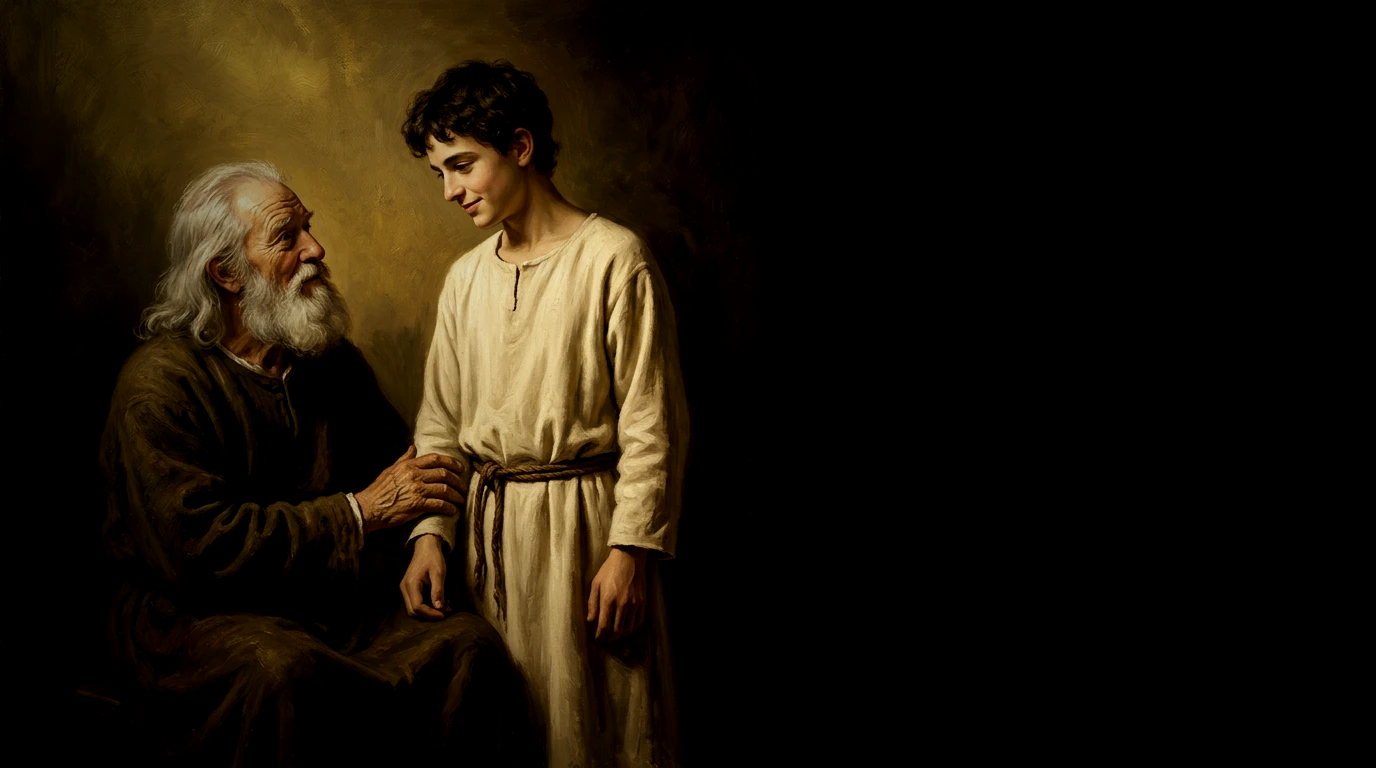
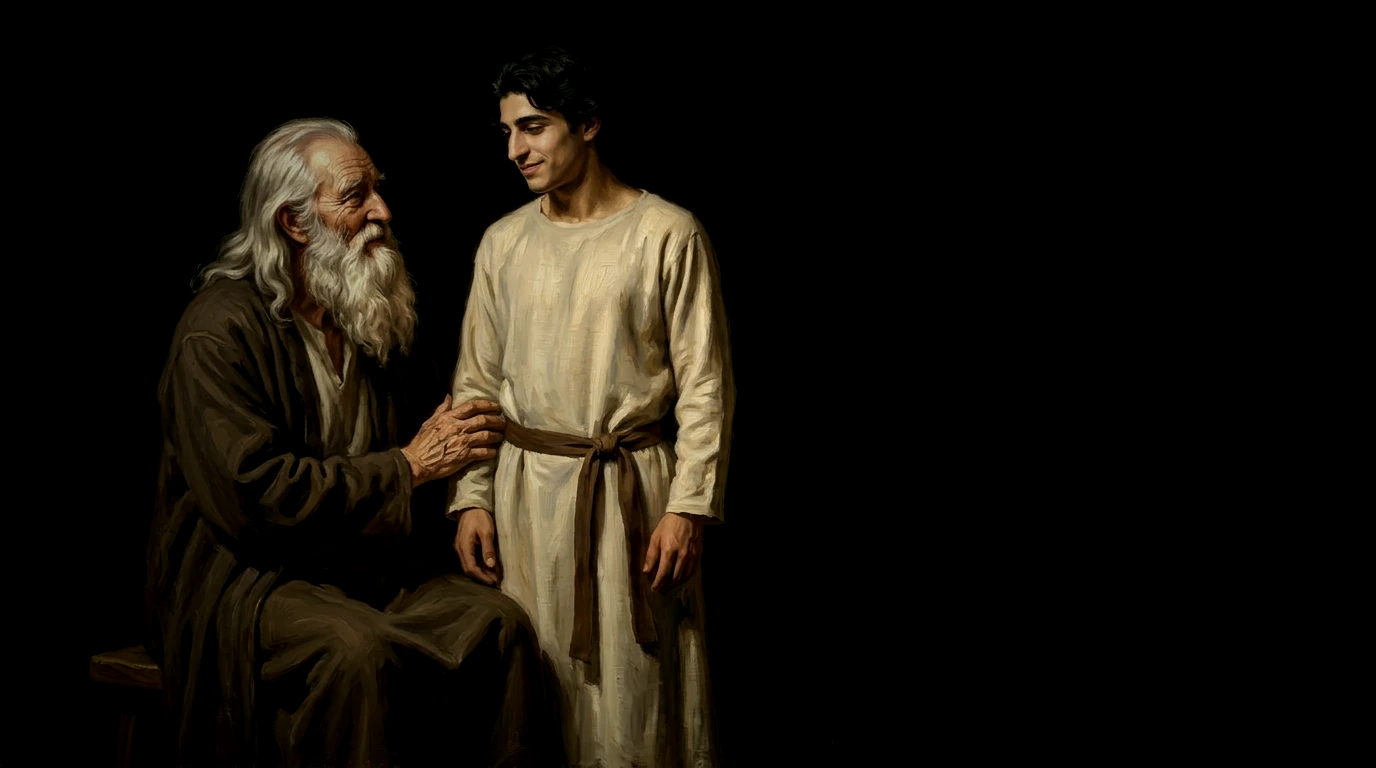
09: Magnific Nano Banana 2 redo of Jacob+Joseph, Cain+Abel, reaching Joseph with references
Claude-Session: https://claude.ai/code/session_016t4pfnS8RRa6Q4vN1upjTj

Changed region(s): [[0.0, 0.0, 0.5312, 1.0], [0.0625, 0.8438, 0.125, 0.875], [0.1875, 0.9375, 0.2188, 0.9688]]

diff --git a/_handoff09/b09p/scenes09p.js b/_handoff09/b09p/scenes09p.js
@@ -158,7 +158,7 @@ function tag(s,ix,iy,a,gold,o={}){if(a<=.003)return;const [x,y]=P(ix,iy);const l
 function tagAt(s,lx,ly,ix,iy,a,gold,sz=52){if(a<=.003)return;const [x,y]=P(ix,iy);cap(s,lx,ly,sz,a,gold,'7px');X.save();X.font=`500 ${sz}px Fraunces`;X.letterSpacing='7px';const hw=X.measureText(s).width/2+18;X.restore();
   const sx=x<lx?lx-hw:lx+hw;X.save();X.globalAlpha*=a*.8;X.strokeStyle='rgba(217,180,106,.9)';X.lineWidth=2;X.beginPath();X.moveTo(sx,ly);X.lineTo(x,y);X.stroke();X.restore();}
 // draw a painting at an explicit transform (s = screen px per image px)
-function draw(k,ox,oy,s,a=1){const im=IMG[k];if(!im)return;LP={ox,oy,s,b:{side:'C',l:ox,r:ox+1376*s}};X.save();X.globalAlpha*=a;X.drawImage(im,ox,oy,1376*s,768*s);X.restore();}
+function draw(k,ox,oy,s,a=1){const im=IMG[k];if(!im)return;LP={ox,oy,s,b:{side:'C',l:ox,r:ox+1376*s}};X.save();X.globalAlpha*=a;if(k==='b_joseph')X.globalCompositeOperation='lighten';X.drawImage(im,ox,oy,1376*s,768*s);X.restore();}
 // keep image point (ix,iy) at screen (sx,sy) with scale s
 const at=(ix,iy,sx,sy,s)=>[sx-ix*s,sy-iy*s];
 function warm(x,y,r,a){X.save();X.globalCompositeOperation='lighter';const g=X.createRadialGradient(x,y,0,x,y,r);g.addColorStop(0,`rgba(255,196,110,${.2*a})`);g.addColorStop(1,'rgba(255,196,110,0)');X.fillStyle=g;X.fillRect(0,0,W,H);X.restore();}
@@ -217,7 +217,7 @@ S(11.95,17.15,(v)=>{const u=camE((v-12.05)/5.2);const z=lerp(.832,.875,u),cxI=le
   tagAt('FIRSTBORN',300,440,360,300,1,false);tagAt('YOUNGER',1620,440,1000,340,1+.2*sm(tYg,tYg+.4,v),true);
   const [hx,hy]=P(872,248);{const [sx,sy]=P(600,318);ink(bez([sx,sy],[(sx+hx)/2,sy-210],[hx-10,hy-58]),eio(sm(tRH,tRH+1.1,v)),1,{arrow:true,w:6,head:30});}});
 // ---------- 0:17 · the boys' father
-S(17.15,19.75,(v)=>{const u=camE((v-17.25)/2.65);{const s2=H/768*.5;draw('02_crossing',-70+10*u,1060-759*s2,s2,.9);}const sc=H/768*.7*(1+.05*u);const [ox,oy]=at(930,150,1430-40*u,500,sc);warm(1400,560,600,1);draw('b_joseph',ox,oy,sc);bokeh(v,1,7,6);
+S(17.15,19.75,(v)=>{const u=camE((v-17.25)/2.65);{const s2=H/768*.5;draw('02_crossing',-70+10*u,1060-759*s2,s2,.9);}const sc=H/768*.7*(1+.05*u);const [ox,oy]=at(817,90,1430-40*u,420,sc);warm(1400,560,600,1);draw('b_joseph',ox,oy,sc);bokeh(v,1,7,6);
   cap('JOSEPH, THE BOYS’ FATHER',1330,150,52,ap(v,17.3,.4),true);lx('Jacob’s own son,',1330,250,76,v,18.6);});
 // ---------- 0:20 · he grabs Jacob's hand
 S(19.75,21.55,(v)=>{const u=eio(clamp((v-19.55)/2.95));const z=lerp(.95,1.55,u);const sc=H/768*z;const [ox,oy]=at(790,262,960,lerp(600,540,u),sc);warm(960,560,700,.8);draw('02b_grabs',ox,oy,sc);bokeh(v,1,43,5);
@@ -226,7 +226,7 @@ S(19.75,21.55,(v)=>{const u=eio(clamp((v-19.55)/2.95));const z=lerp(.95,1.55,u);
   const g2=X.createLinearGradient(0,820,0,1080);g2.addColorStop(0,'rgba(5,4,3,0)');g2.addColorStop(1,'rgba(5,4,3,.9)');X.fillStyle=g2;X.fillRect(0,820,W,260);X.restore();
   lx('He grabs Jacob’s hand to move it.',960,950,70,v,19.9);});
 // ---------- 0:22 · "Not so, father, this one is the firstborn"
-S(21.55,24.75,(v)=>{const z=lerp(1.25,1.31,camE((v-22.3)/2.6));const sc=H/768*z;const [ox,oy]=at(930,150,1450,400,sc);warm(1450,420,700,1);draw('b_joseph',ox,oy,sc);blackL(860,1200);bokeh(v,1,47,6);
+S(21.55,24.75,(v)=>{const z=lerp(1.25,1.31,camE((v-22.3)/2.6));const sc=H/768*z;const [ox,oy]=at(817,90,1450,400,sc);warm(1450,420,700,1);draw('b_joseph',ox,oy,sc);blackL(860,1200);bokeh(v,1,47,6);
   vSide(ap(v,21.7,.35),600,'GENESIS 48:18','לֹא־כֵן אָבִי כִּי־זֶה הַבְּכֹר',['הַבְּכֹר'],[[['“Not so, father,',0]],[['this one is the ',0],['firstborn',1],['.”',0]]],{cy:540,hs:100,es:66});});
 // ---------- 0:25 · "and Jacob says, 'I know, my son, I know'" ----------
 S(24.75,28.65,(v)=>{const k2=C('i know',27);const z=1.04+.06*eio(sm(24.9,28.75,v))+.06*eio(sm(k2,k2+1,v));pic('03_jacob_closeup',v,24.9,28.8,{side:'L',tx:420,z,push:0});
@@ -280,9 +280,9 @@ S(53.15,60.05,(v)=>{const u=camE((v-53.25)/6.9);const sc=1.22*(1+.05*u);const [o
   tag('ABEL',830,150,ap(v,tA+.3,.5),true,{dx:210,y:430,tick:false});tag('CAIN',372,60,ap(v,C('instead of cains',56)+.2,.5),false,{dx:-170,y:400,tick:false});});
 // ---------- 1:00 · Genesis 4:8 ----------
 S(60.05,63.35,(v)=>{const tR=C('cain rises up',59),tK=C('and kills him',61);
-  pic('f_cain_rises',v,60.15,63.6,{side:'L',tx:520,fx:.45,z:.85,push:.06,fade:760});bokeh(v,1,31,5);
-  const [ax,ay]=P(860,560);dimAt(ax,ay,330,.95*sm(tK,tK+.8,v));
-  verse2(ap(v,60.2,.3),1460,520,'GENESIS 4:8',['וַיָּקָם קַיִן אֶל־הֶבֶל','אָחִיו וַיַּהַרְגֵהוּ'],['וַיַּהַרְגֵהוּ'],[[['“Cain rose up against Abel',0]],[['his brother, and ',0],['killed him',1],['.”',0]]],{hs:92,es:62});});
+  pic('f_cain_rises',v,60.15,63.6,{side:'L',tx:560,fx:.5,z:.75,push:.06,fade:760});bokeh(v,1,31,5);
+  const [ax,ay]=P(1100,560);dimAt(ax,ay,330,.95*sm(tK,tK+.8,v));
+  verse2(ap(v,60.2,.3),1520,520,'GENESIS 4:8',['וַיָּקָם קַיִן אֶל־הֶבֶל','אָחִיו וַיַּהַרְגֵהוּ'],['וַיַּהַרְגֵהוּ'],[[['“Cain rose up against Abel',0]],[['his brother, and ',0],['killed him',1],['.”',0]]],{hs:92,es:62});});
 // ---------- 1:03 · "But God keeps choosing the younger anyway. Isaac is picked over his older brother Ishmael" ----------
 S(63.35,69.05,(v)=>{const tO=C('his older brother ishmael',66);const q=eio(sm(tO-.7,tO+1.5,v));
   const sA=H/768*1.3,sB=H/768*.82;const [aox,aoy]=at(957,480,640,600,sA);const bm=META['11_isaac_ishmael'];const box=440-bm.cx*1376*sB,boy=560-.5*768*sB;
@@ -397,7 +397,7 @@ S(207.15,213.15,(v)=>{BGd();const xs=[520,960,1400],tc=[207.3,208.7,211.4];
 S(213.15,216.95,(v)=>{pic('31_joseph_sold',v,213.15,217,{side:'R',tx:1300,drift:-50});const c=560;
   lx('They sell him',c,430,66,v,213.3);lx('as a slave instead,',c,515,66,v,213.8);lx('but *Joseph* survives.',c,625,66,v,215.5);});
 // 3:37 · years later: the boys' father
-S(216.95,223.15,(v)=>{const u=camE((v-217.1)/6);{const s2=H/768*.5;draw('02_crossing',-70+10*u,1060-759*s2,s2,.9);}const s=H/768*.7*(1+.06*u);const [ox,oy]=at(930,150,1430-40*u,500,s);warm(1400,560,600,1);draw('b_joseph',ox,oy,s);bokeh(v,1,61,6);
+S(216.95,223.15,(v)=>{const u=camE((v-217.1)/6);{const s2=H/768*.5;draw('02_crossing',-70+10*u,1060-759*s2,s2,.9);}const s=H/768*.7*(1+.06*u);const [ox,oy]=at(817,90,1430-40*u,420,s);warm(1400,560,600,1);draw('b_joseph',ox,oy,s);bokeh(v,1,61,6);
   nameH('יוֹסֵף','JOSEPH',400,190,ap(v,217.2,.35),86,44);lx('Years later,',540,335,60,v,217.1);ln('the boys’ father',400,300,60,v,218.2);lx('from the start of this story,',540,495,60,v,219.1);lx('the one who grabs Jacob’s hand.',540,575,60,v,221.0);});
 // 3:43 · Manasseh and Ephraim
 S(223.15,227.85,(v)=>{warm(960,560,820,.8);const z=lerp(.78,.81,camE((v-223.3)/5));bed('00_before',v,z);

diff --git a/_research/notes.md b/_research/notes.md
@@ -473,3 +473,7 @@ Everything researched for topics and scripts. Read this before picking a topic, 
 - A Hebrew key word with its gloss goes under the scene (וְלֹא הִכִּירוּ "he did not recognize him").
 - Explainers are labelled pattern diagrams: 03 drew the recurring scene as a path with stations (JOURNEY, A WELL, WATER, …).
 - The narration isn't captioned.
+
+## Image generation (Nov 8, 2026)
+- Use Magnific with Nano Banana 2 (mode `imagen-nano-banana-2-flash`, 1k, 16:9): 75 credits per image, with references at the same price. ElevenLabs' Nano Banana 2 costs 204 per image.
+- Always upload the existing shots of a recurring person as references (`creations_request_upload` → PUT → `creations_finalize_upload`).
